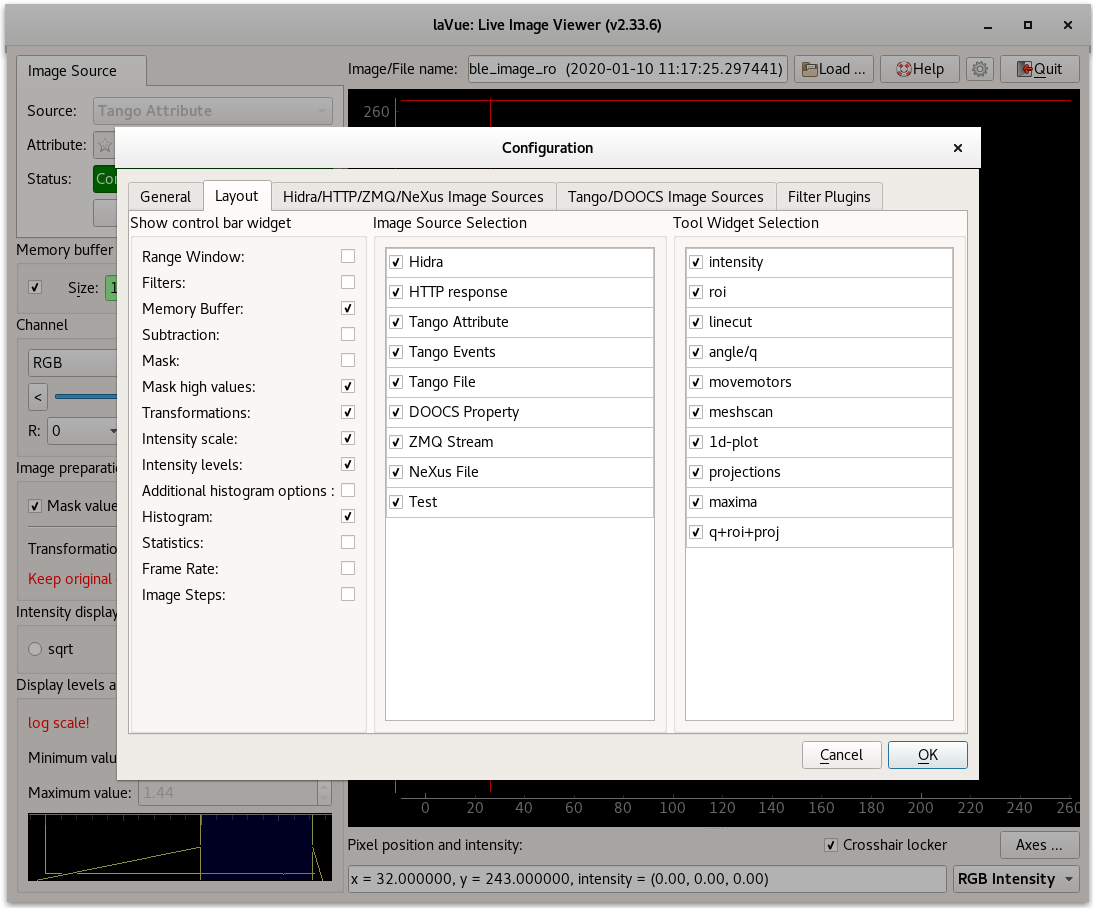
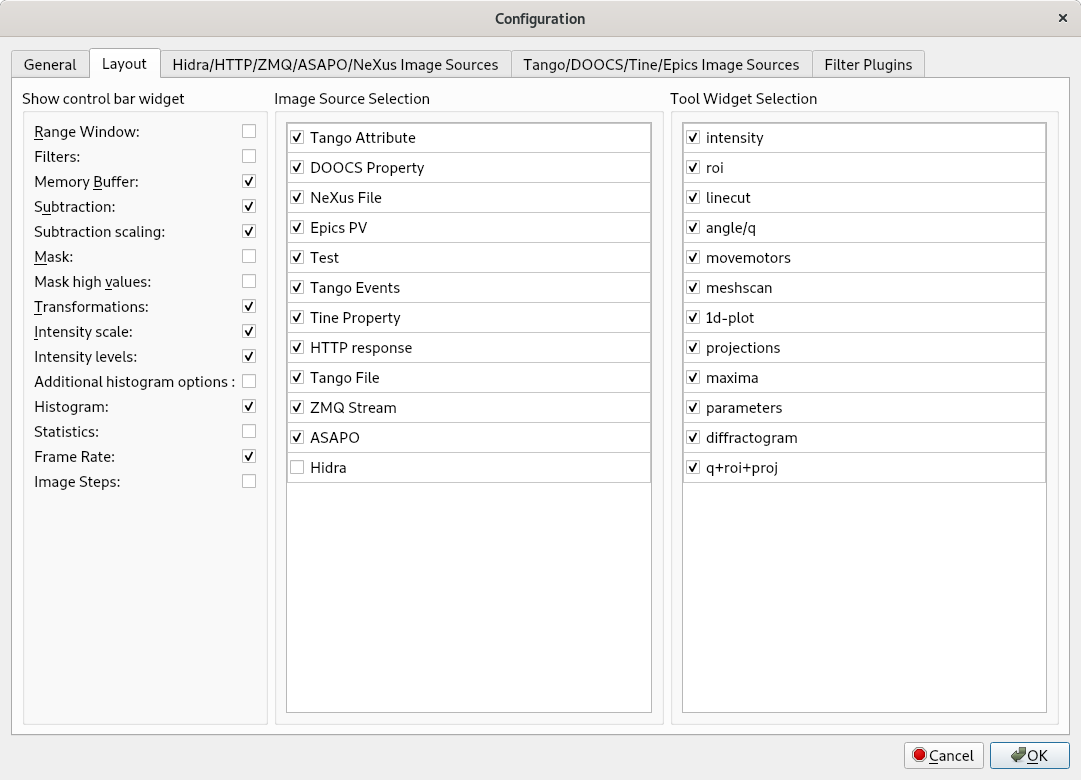
Issue 488: update help for v2.58 (#489)
* update help

* bump the version

diff --git a/lavuelib/help/LaVue---Start_98091837.html b/lavuelib/help/LaVue---Start_98091837.html
@@ -38,7 +38,7 @@
         
                         </div>
                     <div id="main-content" class="wiki-content group">
-                    <h3 id="LaVue-Start-StarttheViewer">Start the Viewer</h3><p>To start LaVue simple execute</p><pre>  $ lavue</pre><h3 id="LaVue-Start-StarttheVieweronadebian/ubuntudistribution">Start the Viewer on a debian/ubuntu distribution</h3><p>To distinguish between python2 and python3 the HDRI packages may provide also additional scripts i.e.</p><pre>  $ lavue3</pre><p>for python 3 and/or</p><pre>  <span class="pl-s1">$ lavue2</span></pre><p>for python 2.</p><h3 id="LaVue-Start-StarttheViewerintheexpertmode">Start the Viewer in the expert mode</h3><p>Changing LaVue  settings is available in the expert mode, i.e.</p><pre>  $ lavue -m expert</pre><p>under an additional button: <code>Configuration</code>.</p><h3 id="LaVue-Start-Launchingoptions">Launching options</h3><p>To get all possible command-line parameters</p><pre>  <span class="pl-s1">$ lavue -h</span></pre><pre><span class="pl-s1"><br/><br/>usage: lavue [-h] [-v] [-m MODE] [-y STYLE] [-e STYLESHEET] [-j INSTANCE]<br/>             [-f IMAGEFILE] [-s SOURCE] [-c CONFIGURATION] [-z] [-o MBUFFER]<br/>             [--channel CHANNEL] [-b BKGFILE] [-k MASKFILE] [-p MASKHIGHVALUE]<br/>             [-t TRANSFORMATION] [-i SCALING] [-l LEVELS] [-q AUTOFACTOR]<br/>             [-g GRADIENT] [-r VIEWRANGE] [-x] [-u TOOL] [-a TANGODEVICE]<br/>             [-d DOORDEVICE] [-n ANALYSISDEVICE]<br/><br/>2d detector live image viewer<br/><br/>optional arguments:<br/>  -h, --help            show this help message and exit<br/>  -v, --version         program version<br/>  -m MODE, --mode MODE  interface mode, i.e. user, expert<br/>  -y STYLE, --style STYLE<br/>                        Qt style<br/>  -e STYLESHEET, --stylesheet STYLESHEET<br/>                        Qt stylesheet<br/>  </span>-j INSTANCE, --instance INSTANCE<br/>                        LaVue instance with separate configuration<br/>  --organization ORGANIZATION<br/>                        Organization name<br/>  --domain DOMAIN<br/>                        Organization domain name<br/>  --configuration-path CONFIGPATH<br/>                        Configuration path<br/><span class="pl-s1">  -f IMAGEFILE, --image-file IMAGEFILE<br/>                        image file name to show, e.g. /tmp/myfile2.nxs://entry/data/pilatus,,-1<br/>  -s SOURCE, --source SOURCE<br/>                        image source, i.e. hidra, http, tangoattr,<br/>                            tangoevents, tangofile, doocsprop, tineprop, <br/>                            epicspv, zmq, asapo, nxsfile, test<br/>                        multiple-source names is separated by semicolon ';'<br/>  -c CONFIGURATION, --configuration CONFIGURATION<br/>                        configuration strings for the image source separated by comma, e.g.<br/>                          hidra -&gt; '-c haspilatus300k.desy.de'<br/>                          http -&gt; '-c haso228eiger/1.5.0'<br/>                          tangoattr -&gt; '-c sys/tg_test/1/double_image_ro'<br/>                          tangoevents -&gt; '-c sys/lamccds/1/video_last_image'<br/>                          tangofile -&gt; '-c p00/plt/1/LastImageTaken,p00/plt/1/LastImagePath'<br/>                          zmq -&gt; '-c haso228:5535,topic'<br/>                          doocsprop -&gt; '-c TTF2.FEL/BLFW2.CAM/BL0M1.CAM/IMAGE_EXT'<br/>                          nxsfile -&gt; '-c /tmp/myfile.nxs://entry/data/pilatus'<br/>                                  or '-c /tmp/myfile2.nxs://entry/data/pilatus,0,34'<br/>                          tineprop -&gt; '-c /HASYLAB/P00_LM00/Output/Frame'<br/>                          asapo -&gt; '-c pilatus,substream2'<br/>                          epicspv -&gt; '-c '00SIM0:cam1:,[640,480]'<br/>                       configuration for multiple-sources is separated by semicolon ';'<br/>  --offset OFFSET relative offset x,y[,TRANSFORMATION]</span><span class="pl-s1"><br/>                        where x,y are position of the first pixel for a particular image source<br/>                        while optional TRANSFORMATION can be:<br/>                          flip-up-down, flipud, fud, flip-left-right, fliplr, flr, transpose, t,<br/>                          rot90, r90, rot180, r180, r270, rot270, rot180+transpose, rot180t or r180t<br/>                        offset for multiple-sources is separated by semicolon ';'<br/>                        </span>e.g.<br/>                           ;200,300;,54;121,3<br/>                           200,300;100,<br/>                           200,300;100,200,t<br/>                           ;200,300,r45;,52;11,3,r180t<br/>  -w RANGEWINDOW, --range-window RANGEWINDOW<br/>                        range window slices, i.e. x1:x2,y1:y2 , e.g. -w 10:500,20:200<br/>                          where 'm' is '-'<span class="pl-s1"><br/>  --ds-factor DSFACTOR integer down-sampling factor<br/>  --ds-reduction DSREDUCTION<br/>                        down-sampling reduction function, i.e. 'max', 'min', 'mean' or 'sum'<br/>  -z, --filters apply image filters<br/>  -o MBUFFER, --memory-buffer MBUFFER<br/>                     size of memory buffer in frames<br/>  --channel CHANNEL<br/>                     default channel number or 'sum', 'mean', 'rgb' or RGB channels separated by comma e.g.'0,1,3'<br/>  -b BKGFILE, --bkg-file BKGFILE<br/>                        background file-name to load<br/>  </span>--bright-field-file BRIGHTFIELDFILE<br/>                        bright field file-name to load<br/><span class="pl-s1">  -k MASKFILE, --mask-file MASKFILE<br/>                     background file-name to load<br/>  -p MASKHIGHVALUE, --mask-high-value MASKHIGHVALUE<br/>                        highest pixel value to show  <br/>  -t TRANSFORMATION, --transformation TRANSFORMATION<br/>                        image transformation, i.e.<br/>                          flip-up-down, flip-left-right, transpose,<br/>                          rot90, rot180, rot270, rot180+transpose<br/>  -i SCALING, --scaling SCALING<br/>                        intensity scaling, i.e. sqrt, linear, log<br/>  -l LEVELS, --levels LEVELS<br/>                        intensity display levels e.g. -l m20,20<br/>                          where 'm' is '-'<br/>  -q AUTOFACTOR, --factor AUTOFACTOR<br/>                        factor of the highest pick for automatic levels in %, e.g. -q 0.5<br/>  -g GRADIENT, --gradient GRADIENT<br/>                        color gradient, i.e. grey, highcontrast, thermal, flame,<br/>                          bipolar, spectrum, spectrumclip, greyclip, reversegrey, cyclic,<br/>                          yellowy, inverted<br/>  -r VIEWRANGE, --range VIEWRANGE<br/>                        viewbox range, i.e. xmin,ymin,xsize,ysize , e.g. -r 5.6,m60.7,543.2,444.11<br/>                            where 'm' is '-'<br/>  -x, --start           connect the image source<br/>  -u TOOL, --tool TOOL  utility tool, i.e. intensity, roi, movemotors, meshscan, maxima,<br/>                          linecut, projections, 1d-plot, angle/q, q+roi+proj, parameters, diffractogram<br/></span>  --tool-configuration TOOLCONFIG<br/>                          JSON dictionary with tool configuration, e.g. {&quot;rows_to_plot&quot;:&quot;0,1&quot;,&quot;buffer_size&quot;:512}<br/><span class="pl-s1">  -a TANGODEVICE, --tango-device TANGODEVICE<br/>                        tango device of LavueController to communicated with clients during the run<br/>  -d DOORDEVICE, --door DOORDEVICE<br/>                        door device to communicated with sardana during the run<br/>  -n </span>ANALYSISDEVICE, --analysis-device ANALYSISDEVICE <br/>                        tango analysis device of LambdaOnlineAnalysis to communicate with analysis clients during the run<br/>  --log LOG logging level, i.e. debug, info, warning, error, critical</pre><pre><span class="pl-s1"><br/></span></pre><h3 id="LaVue-Start-ChangeLog">ChangeLog</h3><p>Changes for a specific version of LaVue can be found at <a href="https://raw.githubusercontent.com/lavue-org/lavue/develop/ChangeLog" class="external-link" rel="nofollow">ChangeLog</a></p>
+                    <h3 id="LaVue-Start-StarttheViewer">Start the Viewer</h3><p>To start LaVue simple execute</p><pre>  $ lavue</pre><h3 id="LaVue-Start-StarttheVieweronadebian/ubuntudistribution">Start the Viewer on a debian/ubuntu distribution</h3><p>To distinguish between python2 and python3 the HDRI packages may provide also additional scripts i.e.</p><pre>  $ lavue3</pre><p>for python 3 and/or</p><pre>  <span class="pl-s1">$ lavue2</span></pre><p>for python 2.</p><h3 id="LaVue-Start-StarttheViewerintheexpertmode">Start the Viewer in the expert mode</h3><p>Changing LaVue  settings is available in the expert mode, i.e.</p><pre>  $ lavue -m expert</pre><p>under an additional button: <code>Configuration</code>.</p><h3 id="LaVue-Start-Launchingoptions">Launching options</h3><p>To get all possible command-line parameters</p><pre>  <span class="pl-s1">$ lavue -h</span></pre><pre><span class="pl-s1"><br/><br/>usage: lavue [-h] [-v] [-m MODE] [-y STYLE] [-e STYLESHEET] [-j INSTANCE]<br/>             [-f IMAGEFILE] [-s SOURCE] [-c CONFIGURATION] [-z] [-o MBUFFER]<br/>             [--channel CHANNEL] [-b BKGFILE] [-k MASKFILE] [-p MASKHIGHVALUE]<br/>             [-t TRANSFORMATION] [-i SCALING] [-l LEVELS] [-q AUTOFACTOR]<br/>             [-g GRADIENT] [-r VIEWRANGE] [-x] [-u TOOL] [-a TANGODEVICE]<br/>             [-d DOORDEVICE] [-n ANALYSISDEVICE]<br/><br/>2d detector live image viewer<br/><br/>optional arguments:<br/>  -h, --help            show this help message and exit<br/>  -v, --version         program version<br/>  -m MODE, --mode MODE  interface mode, i.e. user, expert<br/>  -y STYLE, --style STYLE<br/>                        Qt style<br/>  -e STYLESHEET, --stylesheet STYLESHEET<br/>                        Qt stylesheet<br/>  </span>-j INSTANCE, --instance INSTANCE<br/>                        LaVue instance with separate configuration<br/>  --organization ORGANIZATION<br/>                        Organization name<br/>  --domain DOMAIN<br/>                        Organization domain name<br/>  --configuration-path CONFIGPATH<br/>                        Configuration path<br/><span class="pl-s1">  -f IMAGEFILE, --image-file IMAGEFILE<br/>                        image file name to show, e.g. /tmp/myfile2.nxs://entry/data/pilatus,,-1<br/>  -s SOURCE, --source SOURCE<br/>                        image source, i.e. hidra, http, tangoattr,<br/>                            tangoevents, tangofile, doocsprop, tineprop, <br/>                            epicspv, zmq, asapo, nxsfile, test<br/>                        multiple-source names is separated by semicolon ';'<br/>  -c CONFIGURATION, --configuration CONFIGURATION<br/>                        configuration strings for the image source separated by comma, e.g.<br/>                          hidra -&gt; '-c haspilatus300k.desy.de'<br/>                          http -&gt; '-c haso228eiger/1.5.0'<br/>                          tangoattr -&gt; '-c sys/tg_test/1/double_image_ro'<br/>                          tangoevents -&gt; '-c sys/lamccds/1/video_last_image'<br/>                          tangofile -&gt; '-c p00/plt/1/LastImageTaken,p00/plt/1/LastImagePath'<br/>                          zmq -&gt; '-c haso228:5535,topic'<br/>                          doocsprop -&gt; '-c TTF2.FEL/BLFW2.CAM/BL0M1.CAM/IMAGE_EXT'<br/>                          nxsfile -&gt; '-c /tmp/myfile.nxs://entry/data/pilatus'<br/>                                  or '-c /tmp/myfile2.nxs://entry/data/pilatus,0,34'<br/>                          tineprop -&gt; '-c /HASYLAB/P00_LM00/Output/Frame'<br/>                          asapo -&gt; '-c pilatus,substream2'<br/>                          epicspv -&gt; '-c '00SIM0:cam1:,[640,480]'<br/>                       configuration for multiple-sources is separated by semicolon ';'<br/>  --offset OFFSET relative offset x,y[,TRANSFORMATION]</span><span class="pl-s1"><br/>                        where x,y are position of the first pixel for a particular image source<br/>                        while optional TRANSFORMATION can be:<br/>                          flip-up-down, flipud, fud, flip-left-right, fliplr, flr, transpose, t,<br/>                          rot90, r90, rot180, r180, r270, rot270, rot180+transpose, rot180t or r180t<br/>                        offset for multiple-sources is separated by semicolon ';'<br/>                        </span>e.g.<br/>                           ;200,300;,54;121,3<br/>                           200,300;100,<br/>                           200,300;100,200,t<br/>                           ;200,300,r45;,52;11,3,r180t<br/>  -w RANGEWINDOW, --range-window RANGEWINDOW<br/>                        range window slices, i.e. x1:x2,y1:y2 , e.g. -w 10:500,20:200<br/>                          where 'm' is '-'<span class="pl-s1"><br/>  --ds-factor DSFACTOR integer down-sampling factor<br/>  --ds-reduction DSREDUCTION<br/>                        down-sampling reduction function, i.e. 'max', 'min', 'mean' or 'sum'<br/>  -z, --filters apply image filters<br/>  -o MBUFFER, --memory-buffer MBUFFER<br/>                     size of memory buffer in frames<br/>  --channel CHANNEL<br/>                     default channel number or 'sum', 'mean', 'rgb' or RGB channels separated by comma e.g.'0,1,3'<br/>  -b BKGFILE, --bkg-file BKGFILE<br/>                        background file-name to load<br/>  --bkg-scale BKGSCALE background scaling factor<br/>  </span>--bright-field-file BRIGHTFIELDFILE<br/>                        bright field file-name to load<br/>  --bright-field-scale BRIGHTFIELDSCALE<br/>                     bright field scaling factor<br/><span class="pl-s1">  -k MASKFILE, --mask-file MASKFILE<br/>                     mask file-name to load<br/>  -p MASKHIGHVALUE, --mask-high-value MASKHIGHVALUE<br/>                        highest pixel value to show  <br/>  -t TRANSFORMATION, --transformation TRANSFORMATION<br/>                        image transformation, i.e.<br/>                          flip-up-down, flip-left-right, transpose,<br/>                          rot90, rot180, rot270, rot180+transpose<br/>  -i SCALING, --scaling SCALING<br/>                        intensity scaling, i.e. sqrt, linear, log<br/>  -l LEVELS, --levels LEVELS<br/>                        intensity display levels e.g. -l m20,20<br/>                          where 'm' is '-'<br/>  -q AUTOFACTOR, --factor AUTOFACTOR<br/>                        factor of the highest pick for automatic levels in %, e.g. -q 0.5<br/>  -g GRADIENT, --gradient GRADIENT<br/>                        color gradient, i.e. grey, highcontrast, thermal, flame,<br/>                          bipolar, spectrum, spectrumclip, greyclip, reversegrey, cyclic,<br/>                          yellowy, inverted<br/>  -r VIEWRANGE, --range VIEWRANGE<br/>                        viewbox range, i.e. xmin,ymin,xsize,ysize , e.g. -r 5.6,m60.7,543.2,444.11<br/>                            where 'm' is '-'<br/>  -x, --start           connect the image source<br/>  -u TOOL, --tool TOOL  utility tool, i.e. intensity, roi, movemotors, meshscan, maxima,<br/>                          linecut, projections, 1d-plot, angle/q, q+roi+proj, parameters, diffractogram<br/></span>  --tool-configuration TOOLCONFIG<br/>                          JSON dictionary with tool configuration, e.g. {&quot;rows_to_plot&quot;:&quot;0,1&quot;,&quot;buffer_size&quot;:512}<br/><span class="pl-s1">  -a TANGODEVICE, --tango-device TANGODEVICE<br/>                        tango device of LavueController to communicated with clients during the run<br/>  -d DOORDEVICE, --door DOORDEVICE<br/>                        door device to communicated with sardana during the run<br/>  -n </span>ANALYSISDEVICE, --analysis-device ANALYSISDEVICE <br/>                        tango analysis device of LambdaOnlineAnalysis to communicate with analysis clients during the run<br/>  --log LOG logging level, i.e. debug, info, warning, error, critical</pre><pre><span class="pl-s1"><br/></span></pre><h3 id="LaVue-Start-ChangeLog">ChangeLog</h3><p>Changes for a specific version of LaVue can be found at <a href="https://raw.githubusercontent.com/lavue-org/lavue/develop/ChangeLog" class="external-link" rel="nofollow">ChangeLog</a></p>
                     </div>
 
                     

diff --git a/lavuelib/help/LaVue---Layout-Settings_148825375.html b/lavuelib/help/LaVue---Layout-Settings_148825375.html
@@ -44,7 +44,7 @@
         
                         </div>
                     <div id="main-content" class="wiki-content group">
-                    <p style="margin-left: 0.0px;">The second tab of the configuration dialog contains<strong> Layout </strong>options. It allows for the user to hide unwanted group widgets.</p><p style="margin-left: 0.0px;"><span><span class="confluence-embedded-file-wrapper confluence-embedded-manual-size"><img class="confluence-embedded-image"  src="attachments/148825375/148825391.png" data-image-src="attachments/148825375/148825391.png" data-unresolved-comment-count="0" data-linked-resource-id="148825391" data-linked-resource-version="1" data-linked-resource-type="attachment" data-linked-resource-default-alias="lavueconfig_layout.png" data-base-url="https://confluence.desy.de" data-linked-resource-content-type="image/png" data-linked-resource-container-id="148825375" data-linked-resource-container-version="4"></span></span></p><p style="margin-left: 0.0px;"><strong>Show widget</strong></p><ul style="margin-left: 0.0px;"><li><strong>Filters: </strong>shows the filter widget</li><li><span><strong>Memory buffer:</strong> </span>shows the memory buffer widget</li><li><strong>Subtraction: </strong>shows the background subtraction image sub-group</li><li><span><strong>Mask</strong>: </span>shows mask the image widget</li><li><strong>Mask high values: </strong>shows mask high value widget</li><li><strong>Transforms: </strong>shows the transformation widget</li><li><span><strong>Intensity scale:</strong> </span>shows the Intensity display scaling group</li><li><strong>Intensity levels: </strong>shows the display levels sub-group</li><li><strong>Additional histogram options:</strong>  shows additional  options: <span>bin edges</span> algorithm and<span> </span><span>data steps </span>to tune auto finding histogram levels<span><br/></span></li><li><strong>Histogram: </strong>shows the intensity histogram</li><li><strong>Statistics: </strong>shows the image statistics group</li><li><strong>Frame Rate: </strong>shows frame rate (in Hz)</li><li><strong>Image Steps: </strong>shows image step widgets for loaded files</li></ul><p style="margin-left: 0.0px;"><strong>Image Source Selection</strong></p><p style="margin-left: 0.0px;">allows select, deselect or rearrange order  (by drag and drop) image source items in Image Source ComboBox</p><p style="margin-left: 0.0px;"><strong>Tool Widget Selection</strong></p><p style="margin-left: 0.0px;">allows select, deselect or rearrange order (by drag and drop) tool items in Tool Widget ComboBox</p>
+                    <p style="margin-left: 0.0px;">The second tab of the configuration dialog contains<strong> Layout </strong>options. It allows for the user to hide unwanted group widgets.</p><p style="margin-left: 0.0px;"><span><span class="confluence-embedded-file-wrapper confluence-embedded-manual-size"><img class="confluence-embedded-image"  src="attachments/148825375/148825391.png" data-image-src="attachments/148825375/148825391.png" data-unresolved-comment-count="0" data-linked-resource-id="148825391" data-linked-resource-version="2" data-linked-resource-type="attachment" data-linked-resource-default-alias="lavueconfig_layout.png" data-base-url="https://confluence.desy.de" data-linked-resource-content-type="image/png" data-linked-resource-container-id="148825375" data-linked-resource-container-version="6"></span></span></p><p style="margin-left: 0.0px;"><strong>Show widget</strong></p><ul style="margin-left: 0.0px;"><li><strong>Filters: </strong>shows the filter widget</li><li><span><strong>Memory buffer:</strong> </span>shows the memory buffer widget</li><li><strong>Subtraction: </strong>shows the background subtraction  and bright field image sub-group</li><li><strong>Subtraction scaling:</strong> multiplicative scaling factors for background and bright field image</li><li><span><strong>Mask</strong>: </span>shows mask the image widget</li><li><strong>Mask high values: </strong>shows mask high value widget</li><li><strong>Transforms: </strong>shows the transformation widget</li><li><span><strong>Intensity scale:</strong> </span>shows the Intensity display scaling group</li><li><strong>Intensity levels: </strong>shows the display levels sub-group</li><li><strong>Additional histogram options:</strong>  shows additional  options: <span>bin edges</span> algorithm and<span> </span><span>data steps </span>to tune auto finding histogram levels<span><br/></span></li><li><strong>Histogram: </strong>shows the intensity histogram</li><li><strong>Statistics: </strong>shows the image statistics group</li><li><strong>Frame Rate: </strong>shows frame rate (in Hz)</li><li><strong>Image Steps: </strong>shows image step widgets for loaded files</li></ul><p style="margin-left: 0.0px;"><strong>Image Source Selection</strong></p><p style="margin-left: 0.0px;">allows select, deselect or rearrange order  (by drag and drop) image source items in Image Source ComboBox</p><p style="margin-left: 0.0px;"><strong>Tool Widget Selection</strong></p><p style="margin-left: 0.0px;">allows select, deselect or rearrange order (by drag and drop) tool items in Tool Widget ComboBox</p>
                     </div>
 
                                         </div><section><!-- <div class="pageSection group">
@@ -53,6 +53,9 @@
                         </div>
 
                         <div class="greybox" align="left">
+                                                            <img src="images/icons/bullet_blue.gif" height="8" width="8" alt=""/>
+                                <a href="attachments/148825375/198872875.png">lavueconfig_layout.png</a> (image/png)
+                                <br/>
                                                             <img src="images/icons/bullet_blue.gif" height="8" width="8" alt=""/>
                                 <a href="attachments/148825375/148825391.png">lavueconfig_layout.png</a> (image/png)
                                 <br/>

diff --git a/lavuelib/help/LaVue---Image-Preparation_98091952.html b/lavuelib/help/LaVue---Image-Preparation_98091952.html
@@ -41,7 +41,7 @@
         
                         </div>
                     <div id="main-content" class="wiki-content group">
-                    <p>The <strong>Image Preparation</strong> group allows to perform basic operation before the image is displayed.</p><p><span class="confluence-embedded-file-wrapper confluence-embedded-manual-size"><img class="confluence-embedded-image"  src="attachments/98091952/132752880.png" data-image-src="attachments/98091952/132752880.png" data-unresolved-comment-count="0" data-linked-resource-id="132752880" data-linked-resource-version="6" data-linked-resource-type="attachment" data-linked-resource-default-alias="lavue_filters.png" data-base-url="https://confluence.desy.de" data-linked-resource-content-type="image/png" data-linked-resource-container-id="98091952" data-linked-resource-container-version="13"></span></p><ul><li><strong>Background/DarkField image:</strong> subtract background or dark field image from a file or from an image source</li><li><strong>Normalization/BrightField image:</strong> apply normalization or bright field image correction from a file or from an image source, i.e. <code>(image - DF) / (BF - DF)</code></li><li><strong>Mask image:</strong> mask plotted image with respect to a file. <br/>Convention of zero mask pixels can be set in the configuration,  by default none-zero masks pixel to zero.</li><li><strong>Mask values above: </strong>mask image pixels which have intensity above the given value</li><li><strong>Transformation:</strong> all 8 possible. Whether axes are changing with transformations or not can be set in the configuration.</li></ul><p>Background image and mask image can be loaded from the file formats supported by <a href="https://pypi.org/project/fabio/" class="external-link" rel="nofollow">fabio</a> or a <a href="https://www.nexusformat.org/" class="external-link" rel="nofollow">NeXus file</a>.</p>
+                    <p>The <strong>Image Preparation</strong> group allows to perform basic operation before the image is displayed.</p><p><span class="confluence-embedded-file-wrapper confluence-embedded-manual-size"><img class="confluence-embedded-image"  src="attachments/98091952/132752880.png" data-image-src="attachments/98091952/132752880.png" data-unresolved-comment-count="0" data-linked-resource-id="132752880" data-linked-resource-version="6" data-linked-resource-type="attachment" data-linked-resource-default-alias="lavue_filters.png" data-base-url="https://confluence.desy.de" data-linked-resource-content-type="image/png" data-linked-resource-container-id="98091952" data-linked-resource-container-version="14"></span></p><ul><li><strong>Background/DarkField image:</strong> subtract background or dark field image from a file or from an image source</li><li><strong>Normalization/BrightField image:</strong> apply normalization or bright field image correction from a file or from an image source, i.e. <code>(image - DF) / (BF - DF)</code></li><li><strong>DF scaling factor: </strong>multiplicative correction to the background or dark field image</li><li><strong>BF scaling factor: </strong>multiplicative correction to the<strong> </strong>brightfield  image</li><li><strong>Mask image:</strong> mask plotted image with respect to a file. <br/>Convention of zero mask pixels can be set in the configuration,  by default none-zero masks pixel to zero.</li><li><strong>Mask values above: </strong>mask image pixels which have intensity above the given value</li><li><strong>Transformation:</strong> all 8 possible. Whether axes are changing with transformations or not can be set in the configuration.</li></ul><p>Background image and mask image can be loaded from the file formats supported by <a href="https://pypi.org/project/fabio/" class="external-link" rel="nofollow">fabio</a> or a <a href="https://www.nexusformat.org/" class="external-link" rel="nofollow">NeXus file</a>.</p>
                     </div>
 
                                         </div><section><!-- <div class="pageSection group">

diff --git a/lavuelib/release.py b/lavuelib/release.py
@@ -26,4 +26,4 @@
 """ release version """
 
 #: (:obj:`str`) the live viewer version
-__version__ = "2.57.0"
+__version__ = "2.58.0"
